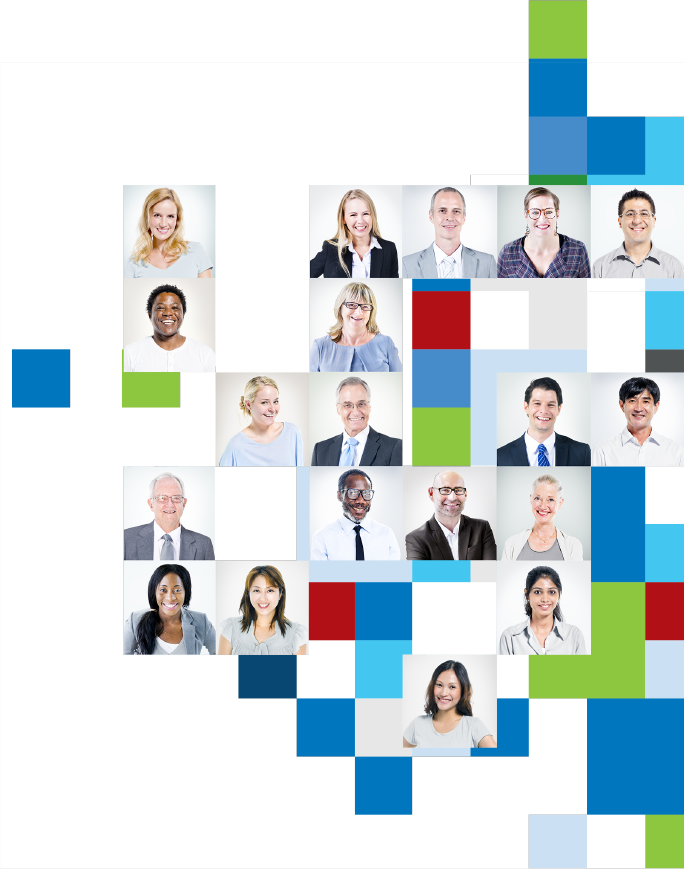
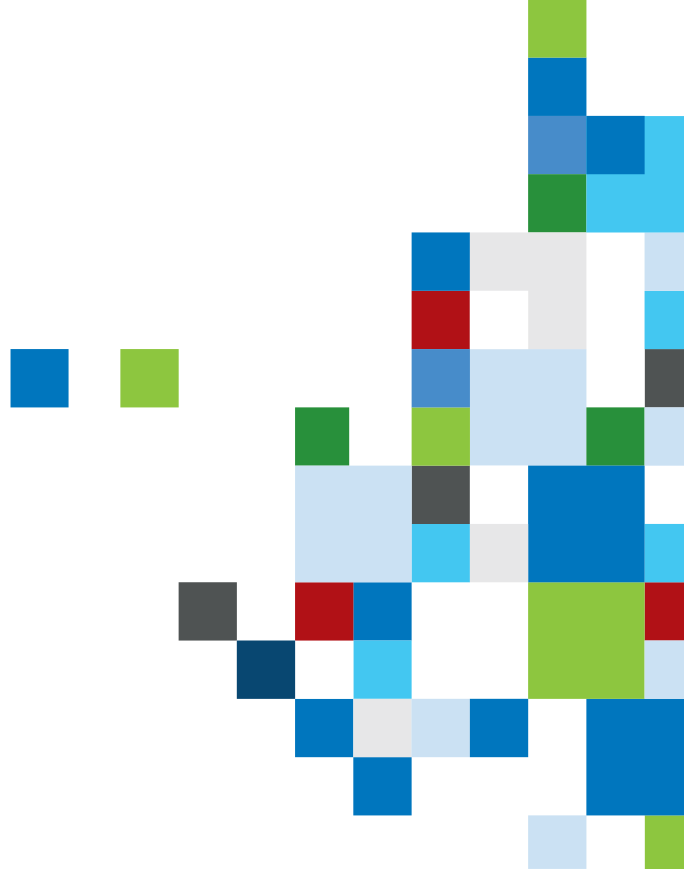
Attempt to make Team Members dynamic

diff --git a/app/assets/stylesheets/optimadmin/global/editor.scss b/app/assets/stylesheets/optimadmin/global/editor.scss
@@ -53,25 +53,67 @@ p {
 }
 
 h1 {
-
+  border-bottom: 3px solid $grey;
+  color: $primary-blue;
+  font-size: em(28px);
+  font-weight: $proxima-nova-light;
+  text-align: center;
+  text-transform: uppercase;
+  padding: 0 0 em(14px, 28px);
+  margin: em(14px, 28px) 0;
 }
 
 h2 {
-
+  border-bottom: 3px solid $grey;
+  color: $primary-blue;
+  font-size: em(26px);
+  font-weight: $proxima-nova-light;
+  text-align: center;
+  text-transform: uppercase;
+  padding: 0 0 em(14px, 26px);
+  margin: em(14px, 26px) 0;
 }
 
 h3 {
-
+  border-bottom: 3px solid $grey;
+  color: $primary-blue;
+  font-size: em(26px);
+  font-weight: $proxima-nova-light;
+  text-align: center;
+  text-transform: uppercase;
+  padding: 0 0 em(14px, 26px);
+  margin: em(14px, 26px) 0;
 }
 
 h4 {
-
+  border-bottom: 3px solid $grey;
+  color: $primary-blue;
+  font-size: em(24px);
+  font-weight: $proxima-nova-light;
+  text-align: center;
+  text-transform: uppercase;
+  padding: 0 0 em(14px, 24px);
+  margin: em(14px, 24px) 0;
 }
 
 h5 {
-
+  border-bottom: 3px solid $grey;
+  color: $primary-blue;
+  font-size: em(22px);
+  font-weight: $proxima-nova-light;
+  text-align: center;
+  text-transform: uppercase;
+  padding: 0 0 em(14px, 22px);
+  margin: em(14px, 22px) 0;
 }
 
 h6 {
-
+  border-bottom: 3px solid $grey;
+  color: $primary-blue;
+  font-size: em(20px);
+  font-weight: $proxima-nova-light;
+  text-align: center;
+  text-transform: uppercase;
+  padding: 0 0 em(14px, 20px);
+  margin: em(14px, 20px) 0;
 }

diff --git a/app/assets/stylesheets/components/team-members.scss b/app/assets/stylesheets/components/team-members.scss
@@ -8,6 +8,10 @@
     font-weight: $proxima-nova-bold;
     font-size: em(38px);
     margin:  0 0 em(28px, 38px);
+    border: 0;
+    padding: 0;
+    text-transform: none;
+    text-align: left;
   }
 
   .dark-action-button {
@@ -16,11 +20,56 @@
 }
 
 .home-team-members {
+  background: image-url('placeholders/team-members.png') top right no-repeat;
   position: absolute;
   right: 0;
-  top: -280px;
+  top: -240px;
+  width: 684px;
+  height: 869px;
 
   @include media('<1200px') {
     position: static;
+  }
+
+  @include media('<tablet') {
+    margin-top: em(40px);
+    width: auto;
+    height: auto;
+  }
+
+  .row {
+    @include media('>=tablet') {
+      position: absolute;
+      left: 111px;
+      max-width: 573px;
+    }
+
+    @include media('<tablet') {
+      position: static;
+    }
+  }
+
+  .team-members-row-1 {
+    top: 186px;
+  }
+
+  .team-members-row-2 {
+    top: 279px;
+  }
+
+  .team-members-row-3 {
+    top: 372px;
+  }
+
+  .team-members-row-4 {
+    top: 467px;
+  }
+
+  .team-members-row-5 {
+    top: 562px;
+  }
+
+  .team-members-row-6 {
+    top: 657px;
   }
 }

diff --git a/app/assets/stylesheets/components/flash-messages.scss b/app/assets/stylesheets/components/flash-messages.scss
@@ -1,5 +1,7 @@
 %flash-heading {
   font-weight: normal;
+  color: $white;
+  text-transform: none;
 }
 
 // Flash

diff --git a/app/controllers/application_controller.rb b/app/controllers/application_controller.rb
@@ -5,7 +5,6 @@ class ApplicationController < ActionController::Base
   before_action :global_site_settings, :load_objects
 
   def index
-    @contact = Contact.new
   end
 
 
@@ -14,6 +13,7 @@ class ApplicationController < ActionController::Base
 
     def load_objects
       @header_menu = Optimadmin::Menu.new(name: "header")
+      @contact = Contact.new
     end
 
     def global_site_settings
